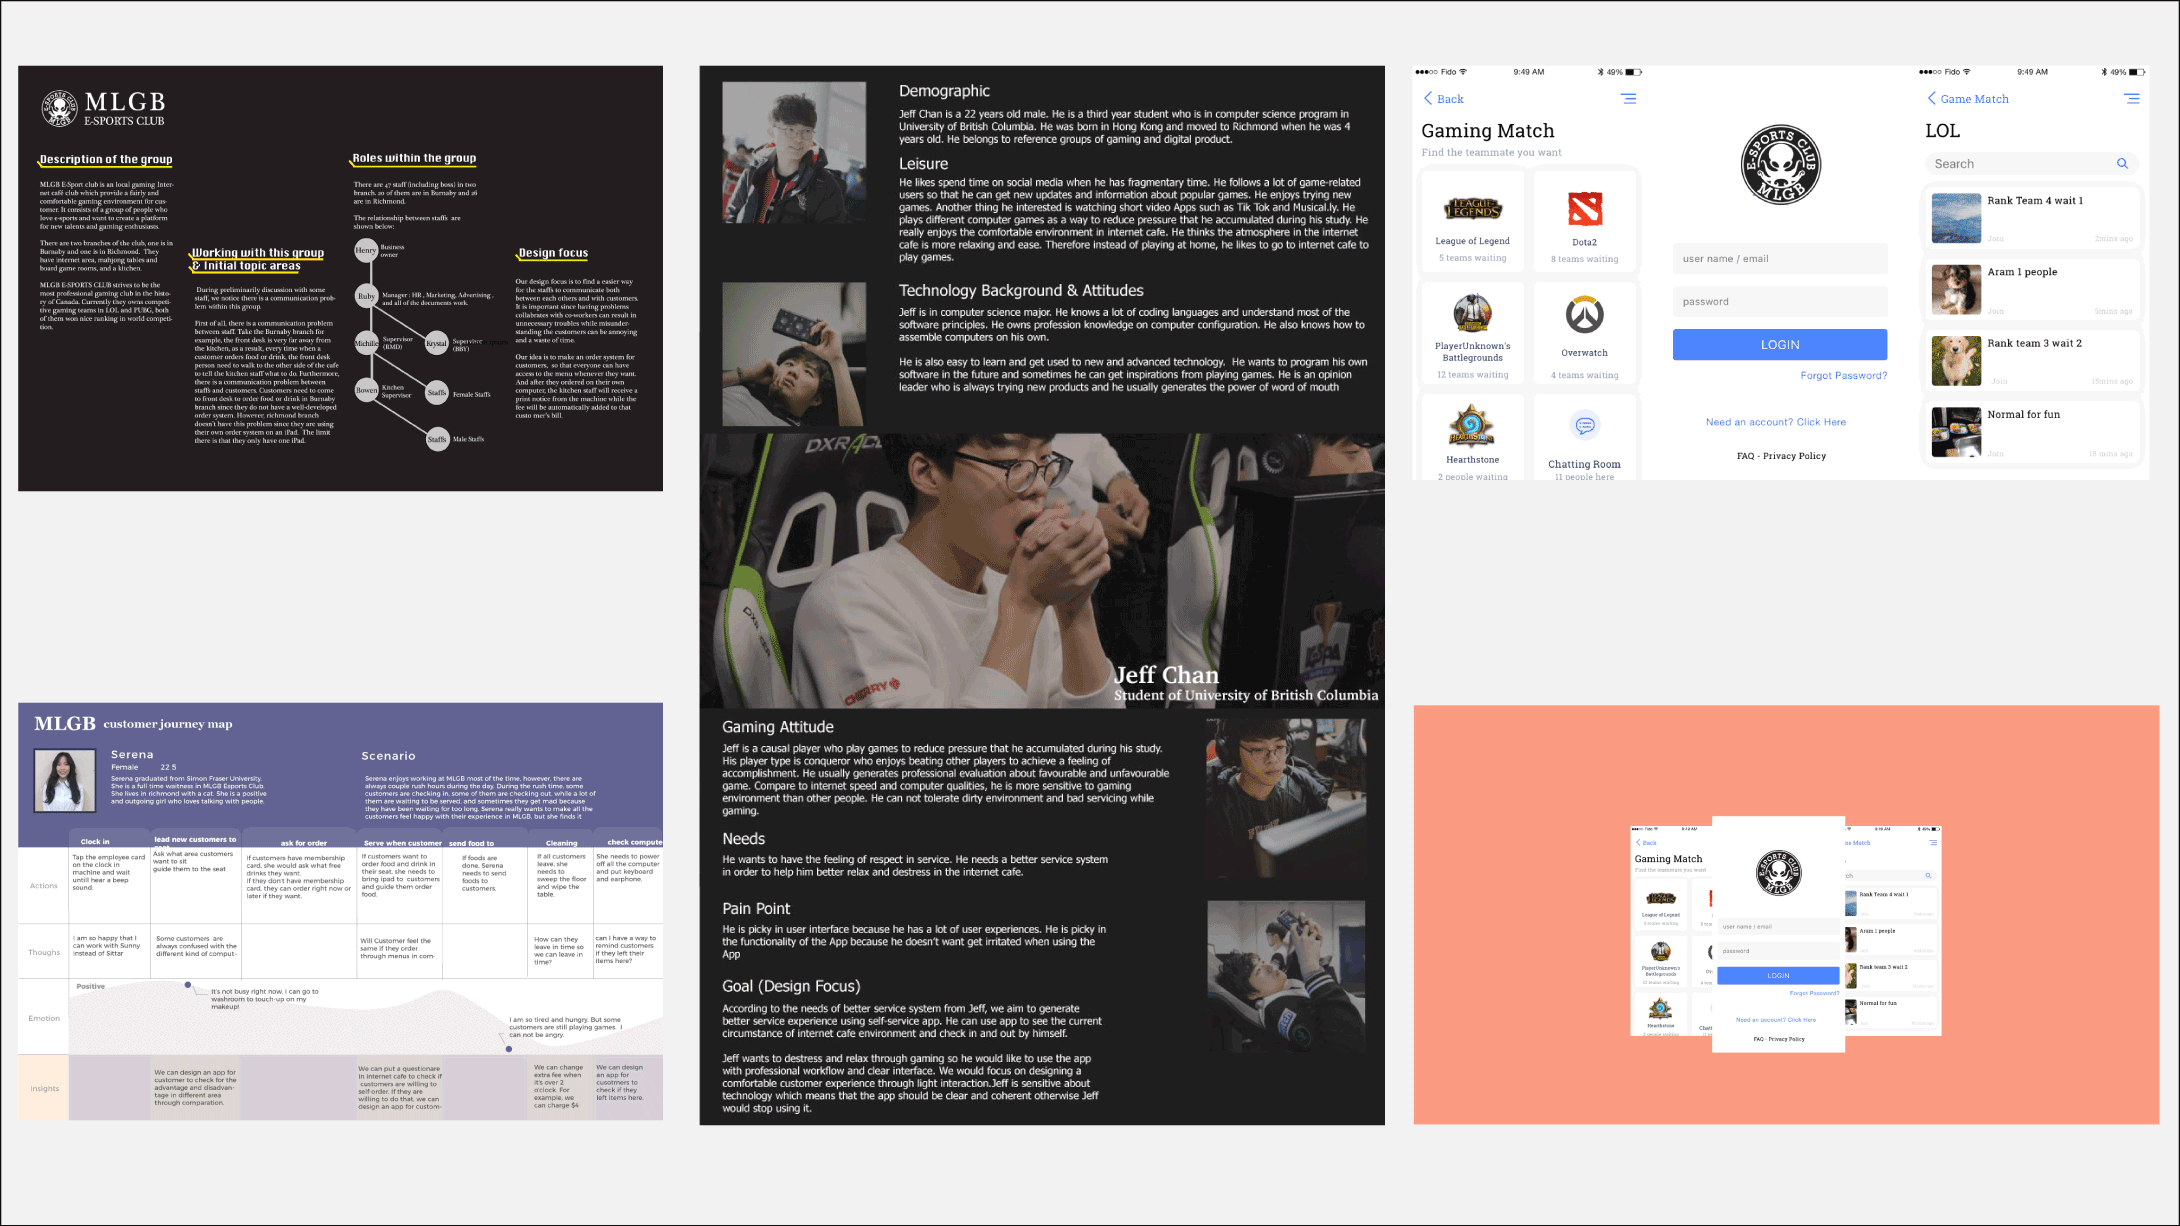
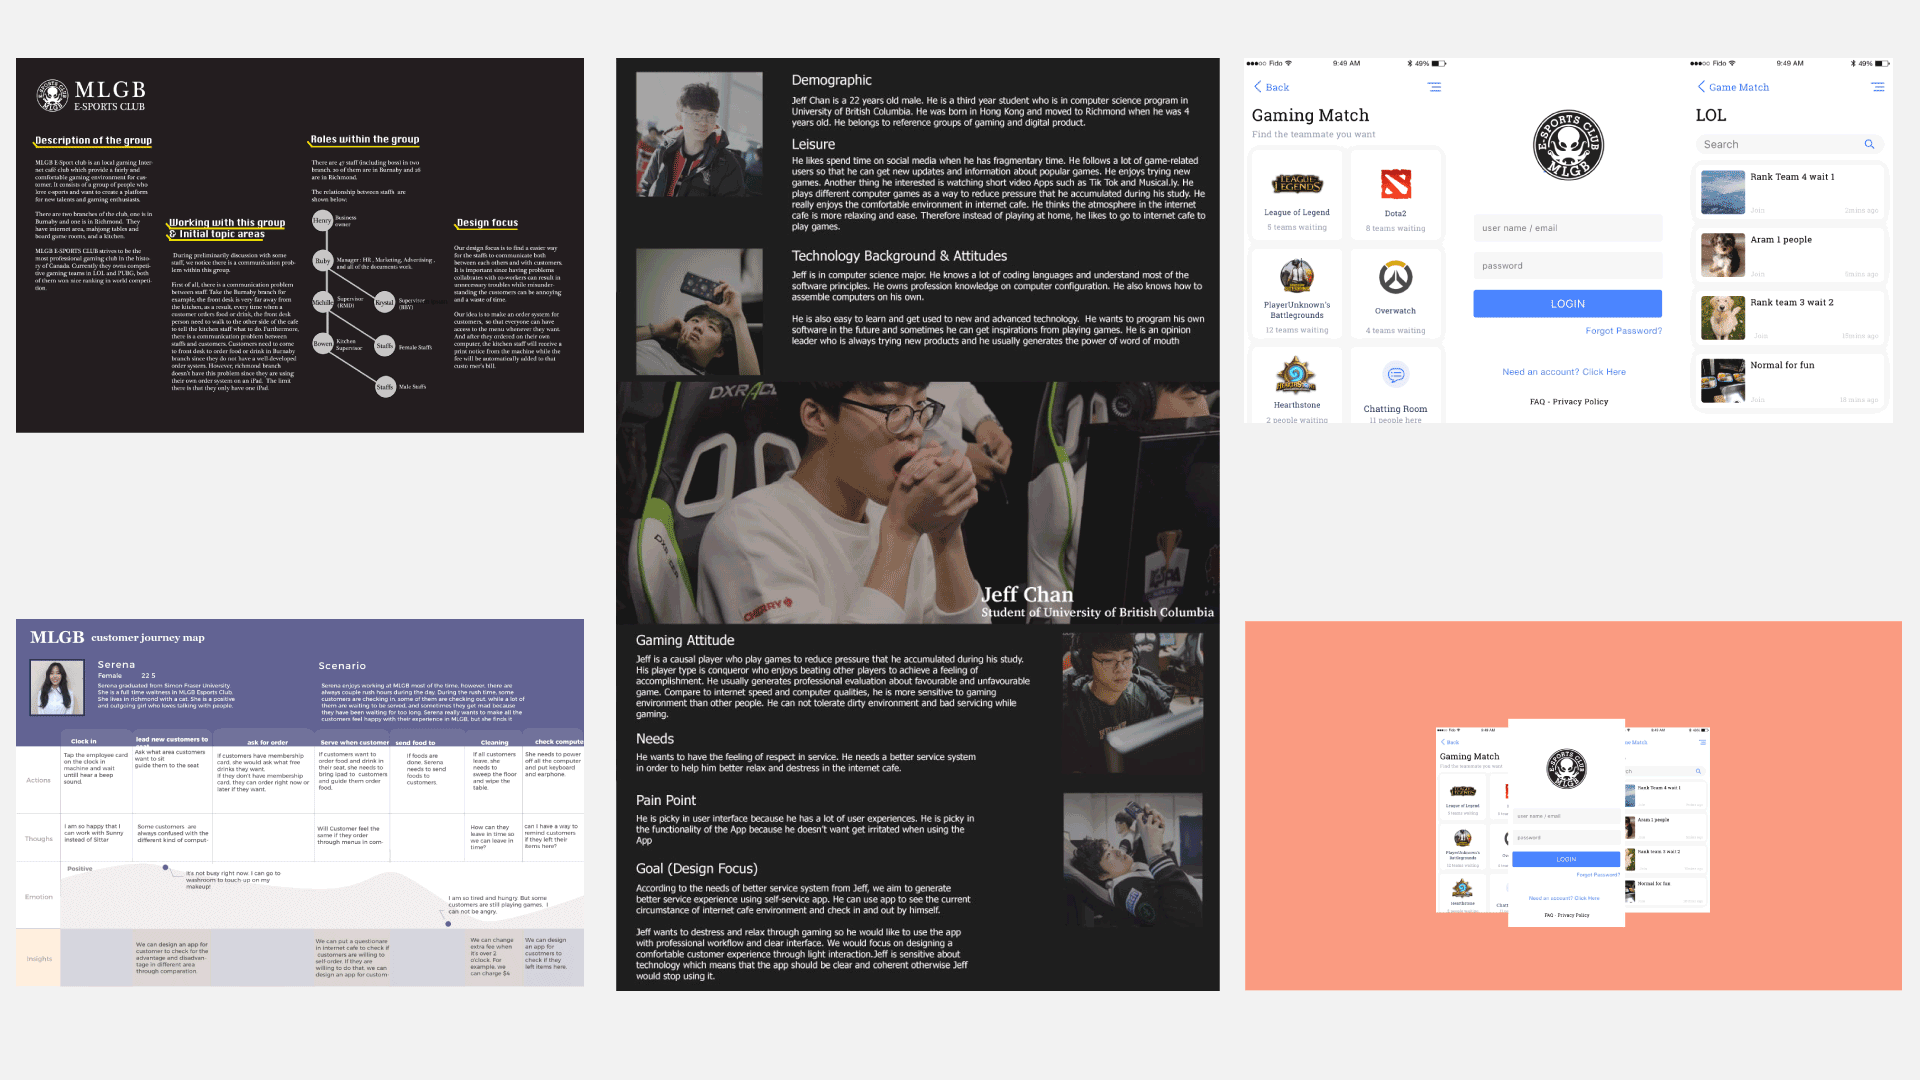
update project gallery in project page and styleguide

diff --git a/styleguide.html b/styleguide.html
@@ -144,8 +144,8 @@
               <span class="sg-color__name">$color-gray-5</span>
               <span class="sg-color__value">#F9F9F9</span>
             </li>
-            <h4>Color for Background of Project Images
-            </h4>
+            <span>Color for Background of Project Images
+            </span>
             <li class="sg-color sg-color--peach-pink">
               <span class="sg-color__name">$color-peach-pink</span>
               <span class="sg-color__value">#f99b85</span>
@@ -244,7 +244,7 @@
             <a href="#imagery" class="anchor"></a>
           </h2>
           <p>
-            All images that put in the portfolio are made by myself.
+            All images that put in the portfolio are made by myself. You can click the image to enlarge.
           </p>
           <h3>
             Logo
@@ -255,42 +255,33 @@
           <h3>
             Landing Decorative Images
           </h3>
-          <p>
-            <img src="img/landing-image.jpg" alt="Landing Decorative Images" class="img-responsive">
-          </p>
-          <p>
-            <img src="img/landing-image-two.jpg" alt="Landing Decorative Images Two" class="img-responsive">
-          </p>
+          <a href="img/landing-image-gallery.png" target="_blank" >
+            <img src="img/landing-image-gallery.png" alt="Landing Decorative Images" class="img-responsive gallery">
+          </a>
+
           <h3>
              Project Images
           </h3>
-          <p>
-            <img src="img/project-one.jpg" alt="Project one preview image" class="img-responsive">
-          </p>
-          <p>
-            <img src="img/project-two.jpg" alt="Project two preview image" class="img-responsive">
-          </p>
-          <p>
-            <img src="img/project-three.jpg" alt="Project one preview image" class="img-responsive">
-          </p>
-          <p>
-            <img src="img/project-four.jpg" alt="Project two preview image" class="img-responsive">
-          </p>
-          <p>
-            <img src="img/styleguide.png" alt="mighty life fitness styleguide image" class="img-responsive">
-          </p>
-          <p>
-            <img src="img/fitness-brochure-one.jpg" alt="Project two preview image" class="img-responsive">
-          </p>
-          <p>
-            <img src="img/fitness-brochure-two.jpg" alt="Project two preview image" class="img-responsive">
-          </p>
-          <p>
-            <img src="img/fitness-poster.jpg" alt="Project two preview image" class="img-responsive">
-          </p>
-
-
-
+          <h4>Mighty Life Fitness Gallery
+          </h4>
+          <a href="img/mighty-life-fitness-gallery.png" target="_blank" >
+            <img src="img/mighty-life-fitness-gallery.png" alt="Mighty Life Fitness Gallery" class="img-responsive gallery">
+          </a>
+          <h4>Forage Gallery
+          </h4>
+          <a href="img/forage-gallery.png" target="_blank" >
+            <img src="img/forage-gallery.png" alt="Forage Gallery" class="img-responsive gallery">
+          </a>
+          <h4>MLGB E-sports Club Gallery
+          </h4>
+          <a href="img/mlgb-gallery.png" target="_blank" >
+            <img src="img/mlgb-gallery.png" alt="MLGB E-sports Club Gallery" class="img-responsive gallery">
+          </a>
+          <h4>Extreme Heat Gallery
+          </h4>
+          <a href="img/extreme-heat-gallery.png" target="_blank" >
+            <img src="img/extreme-heat-gallery.png" alt="Extreme Heat Gallery" class="img-responsive gallery">
+          </a>
         </section>
 
         <section>

diff --git a/index.html b/index.html
@@ -45,10 +45,8 @@
         <div class="wrap" id="name">
           <div class="row">
             <div class="col col--5md intro-text">
-              <p>
-                <h1 class="intro-name">I'm <br> <span>Lance Zheng</span></h2>
-                <h2 class="intro-work"> Graphic Designer& <br>Front-End Developer</h3>
-              </p>
+                <h1 class="intro-name">I'm <br> <span>Lance Zheng</span></h1>
+                <h2 class="intro-work"> Graphic Designer& <br>Front-End Developer</h2>
             </div>
             <div class="col col--7md ">
               <img src="img/landing-image.jpg" alt="introduction decoration image" class="img-responsive landing-image">

diff --git a/css/styleguide.css b/css/styleguide.css
@@ -77,6 +77,9 @@
   padding: 0 1rem;
   max-width: 39rem; /* 624px */
 }
+.gallery{
+  max-width: 100%;
+}
 
 /* --------------------------------------------------------------------------*/
 /* 04. Navigation                                                            */
@@ -219,7 +222,7 @@
 }
 .sg-color-warm-yellow {
   background-color:var(--color-warm-yellow);
-  
+
 }
 .sg-color-background-gray {
   background-color:var(--color-background-gray);

diff --git a/project-one.html b/project-one.html
@@ -159,7 +159,7 @@
 
      </div>
      <div class="wrap ">
-       <h2>Works</h2>
+       <h2>See other Works</h2>
        <ul class="row listings " >
 
          <li class="listings__item  listings__project--one--active  col col--6md">

diff --git a/project-four.html b/project-four.html
@@ -144,7 +144,7 @@
 
      </div>
      <div class="wrap ">
-       <h2>Works</h2>
+       <h2>See other Works</h2>
        <ul class="row listings " >
 
          <li class="listings__item  listings__project--one  col col--6md">

diff --git a/project-three.html b/project-three.html
@@ -146,7 +146,7 @@
 
      </div>
      <div class="wrap ">
-       <h2>Works</h2>
+       <h2>See other Works</h2>
        <ul class="row listings " >
 
          <li class="listings__item  listings__project--one  col col--6md">

diff --git a/project-two.html b/project-two.html
@@ -120,7 +120,7 @@
 
      </div>
      <div class="wrap ">
-       <h2>Works</h2>
+       <h2>See other Works</h2>
        <ul class="row listings " >
 
          <li class="listings__item  listings__project--one  col col--6md">

diff --git a/css/main.css b/css/main.css
@@ -786,7 +786,7 @@ img {
   }
 
   .intro-text{
-  padding-top: 5%;
+  padding-top: 7%;
   }
 }
 
